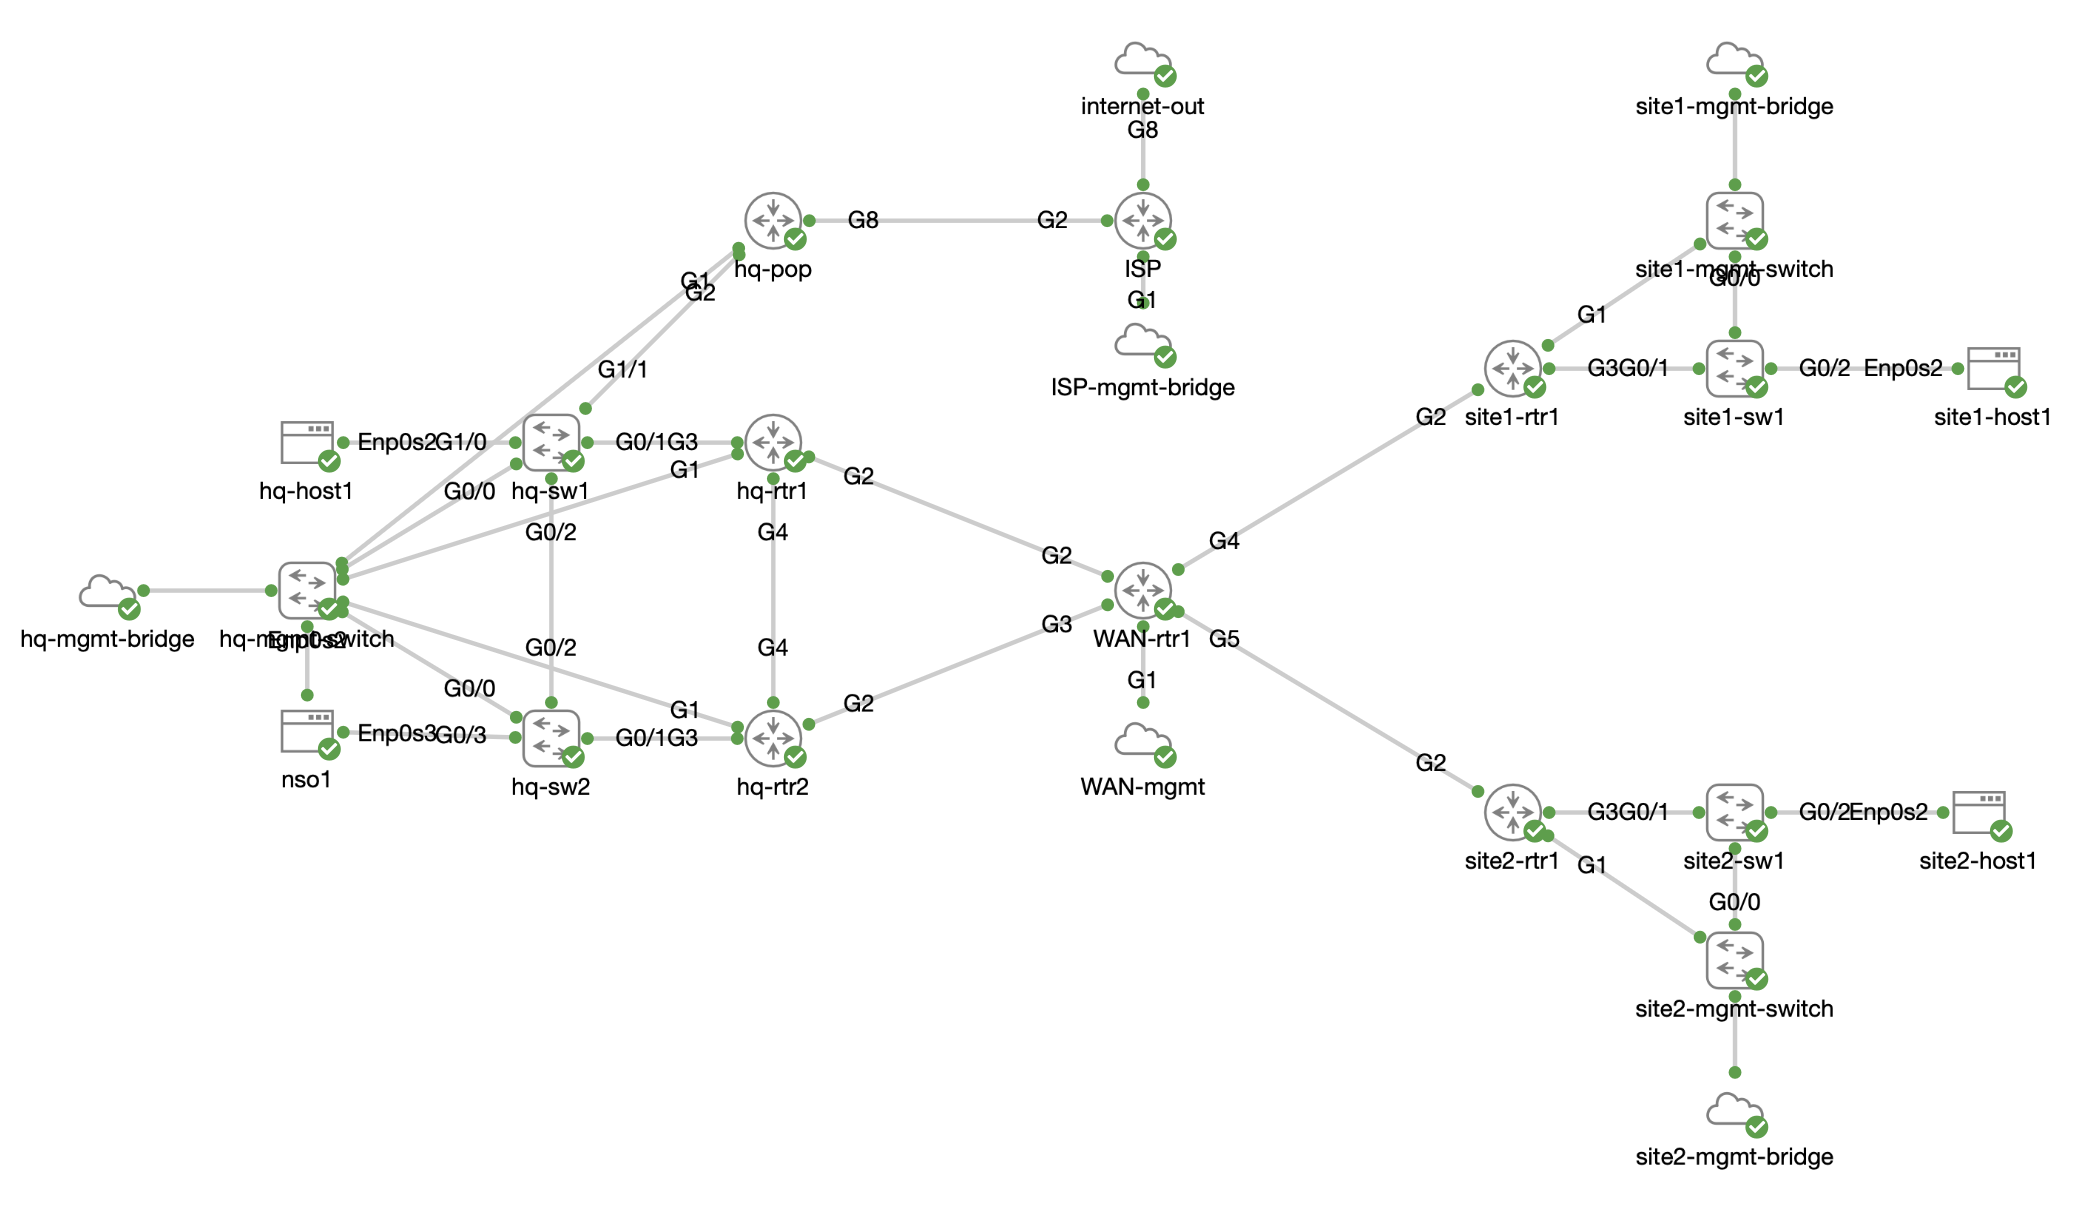
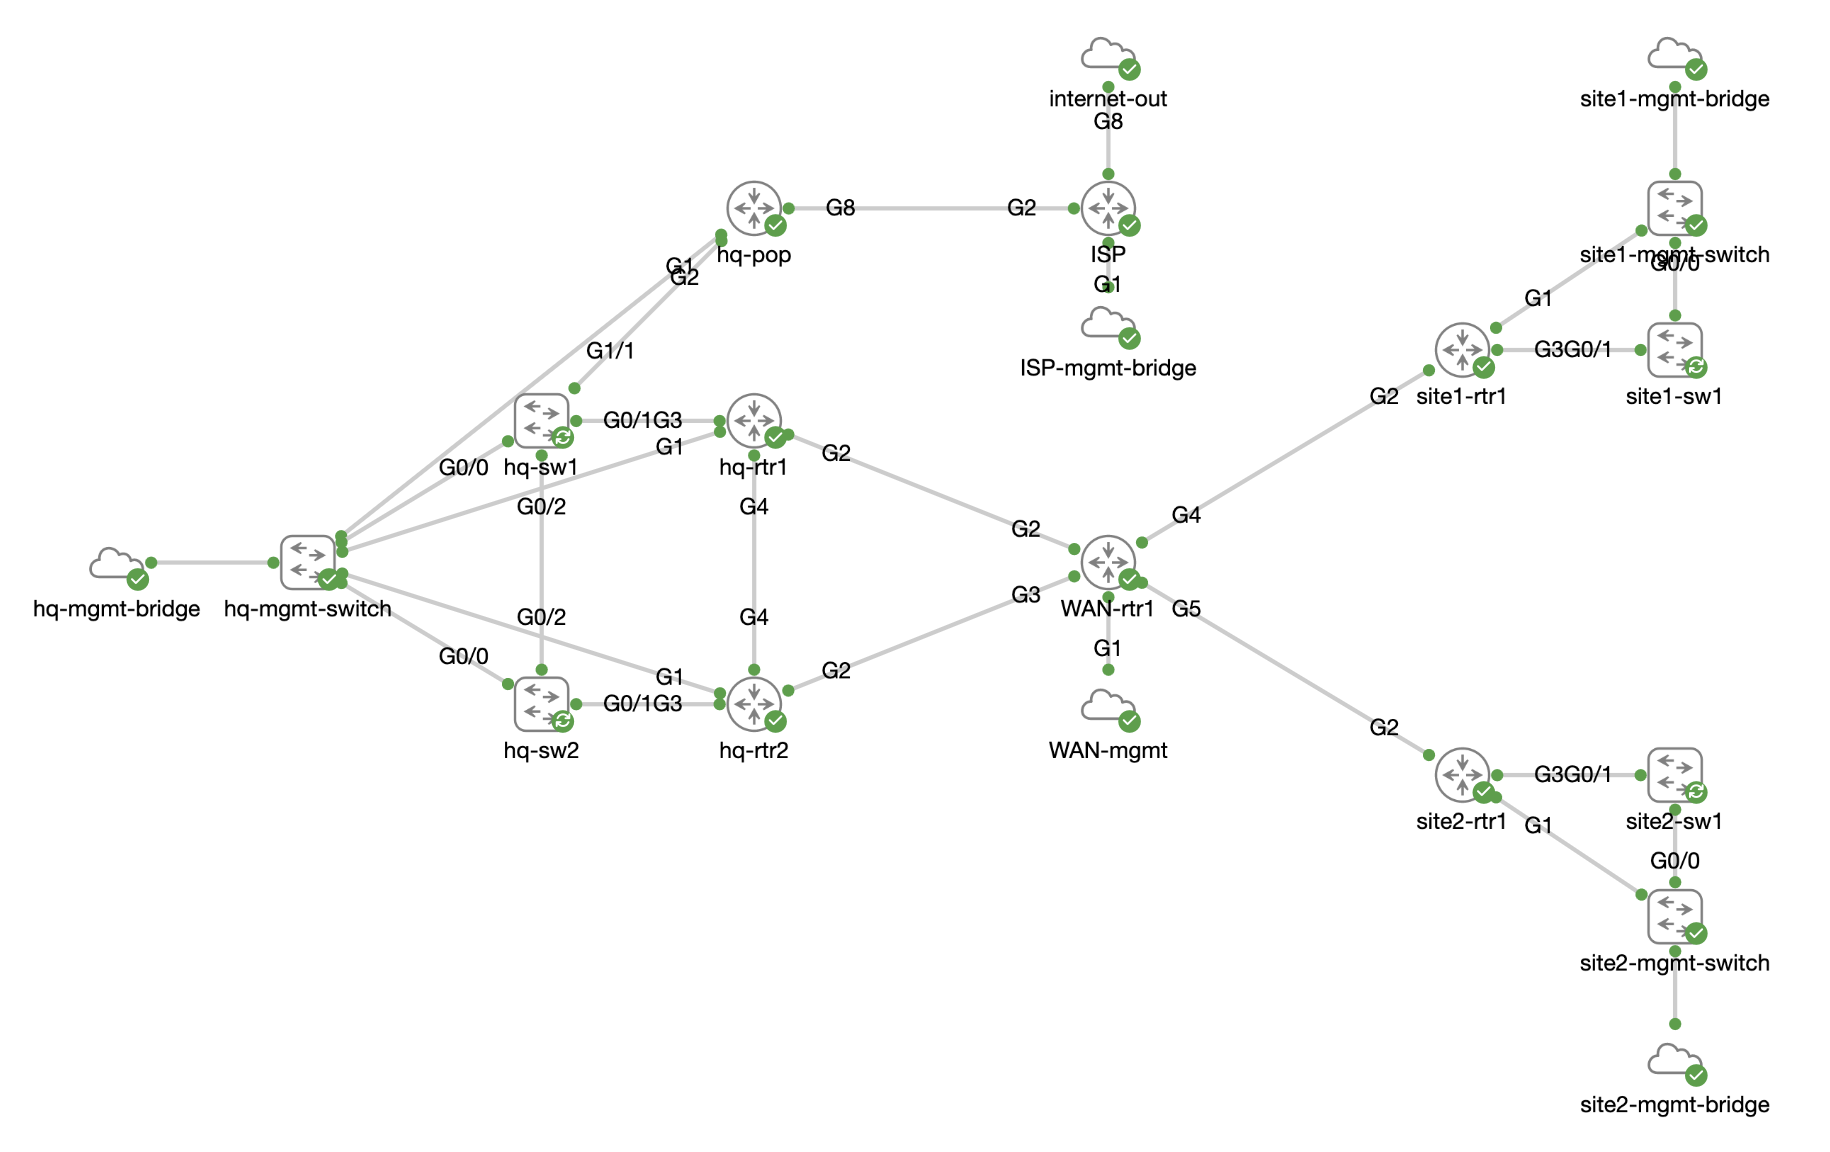
Updated exercises

diff --git a/exercises/explore-inventory.md b/exercises/explore-inventory.md
@@ -39,13 +39,11 @@ ansible-inventory --graph cml_hosts
 Expected output:
 
 ```
-SSL Verification disabled
 @cml_hosts:
   |--ISP
   |--ISP-mgmt-bridge
   |--WAN-mgmt
   |--WAN-rtr1
-  |--hq-host1
   |--hq-mgmt-bridge
   |--hq-mgmt-switch
   |--hq-pop
@@ -54,13 +52,10 @@ SSL Verification disabled
   |--hq-sw1
   |--hq-sw2
   |--internet-out
-  |--nso1
-  |--site1-host1
   |--site1-mgmt-bridge
   |--site1-mgmt-switch
   |--site1-rtr1
   |--site1-sw1
-  |--site2-host1
   |--site2-mgmt-bridge
   |--site2-mgmt-switch
   |--site2-rtr1
@@ -78,50 +73,38 @@ ansible-playbook cisco.cml.inventory
 Expected output:
 
 ```
-SSL Verification disabled
-[WARNING]: running playbook inside collection cisco.cml
+PLAY [cml_hosts] *************************************************************************************************************************************************
 
-PLAY [cml_hosts] *************************************************************************************************
-
-TASK [debug] *****************************************************************************************************
-ok: [internet-rtr1] => {
-    "msg": "Node: internet-rtr1(cat8000v), State: BOOTED, Address: 192.168.178.230"
-}
-ok: [hq-sw1] => {
-    "msg": "Node: hq-sw1(iosvl2), State: BOOTED, Address: 192.168.178.227"
+TASK [debug] *****************************************************************************************************************************************************
+ok: [WAN-rtr1] => {
+    "msg": "Node: WAN-rtr1(csr1000v), State: BOOTED, Address: 10.10.20.131"
 }
 ok: [hq-sw2] => {
-    "msg": "Node: hq-sw2(iosvl2), State: BOOTED, Address: 192.168.178.226"
+    "msg": "Node: hq-sw2(iosvl2), State: BOOTED, Address: 10.10.20.133"
+}
+ok: [hq-sw1] => {
+    "msg": "Node: hq-sw1(iosvl2), State: BOOTED, Address: 10.10.20.132"
 }
 ok: [site1-sw1] => {
-    "msg": "Node: site1-sw1(iosvl2), State: BOOTED, Address: 192.168.178.229"
+    "msg": "Node: site1-sw1(iosvl2), State: BOOTED, Address: 10.10.20.134"
 }
 ok: [hq-rtr1] => {
-    "msg": "Node: hq-rtr1(cat8000v), State: BOOTED, Address: 192.168.178.228"
-}
-ok: [hq-rtr2] => {
-    "msg": "Node: hq-rtr2(cat8000v), State: BOOTED, Address: 192.168.178.222"
+    "msg": "Node: hq-rtr1(csr1000v), State: BOOTED, Address: 10.10.20.135"
 }
 ok: [site1-rtr1] => {
-    "msg": "Node: site1-rtr1(cat8000v), State: BOOTED, Address: 192.168.178.212"
+    "msg": "Node: site1-rtr1(csr1000v), State: BOOTED, Address: 10.10.20.137"
 }
-ok: [site1-host1] => {
-    "msg": "Node: site1-host1(ubuntu), State: BOOTED, Address: site1-host1"
+ok: [hq-rtr2] => {
+    "msg": "Node: hq-rtr2(csr1000v), State: BOOTED, Address: 10.10.20.136"
 }
-ok: [hq-host1] => {
-    "msg": "Node: hq-host1(ubuntu), State: BOOTED, Address: hq-host1"
-}
-ok: [internet-mgmt] => {
-    "msg": "Node: internet-mgmt(external_connector), State: BOOTED, Address: internet-mgmt"
+ok: [WAN-mgmt] => {
+    "msg": "Node: WAN-mgmt(external_connector), State: BOOTED, Address: WAN-mgmt"
 }
 ok: [site2-rtr1] => {
-    "msg": "Node: site2-rtr1(cat8000v), State: BOOTED, Address: 192.168.178.213"
+    "msg": "Node: site2-rtr1(csr1000v), State: BOOTED, Address: 10.10.20.138"
 }
 ok: [site2-sw1] => {
-    "msg": "Node: site2-sw1(iosvl2), State: BOOTED, Address: 192.168.178.231"
-}
-ok: [site2-host1] => {
-    "msg": "Node: site2-host1(ubuntu), State: BOOTED, Address: site2-host1"
+    "msg": "Node: site2-sw1(iosvl2), State: BOOTED, Address: 10.10.20.139"
 }
 ok: [hq-mgmt-bridge] => {
     "msg": "Node: hq-mgmt-bridge(external_connector), State: BOOTED, Address: hq-mgmt-bridge"
@@ -135,37 +118,42 @@ ok: [site1-mgmt-switch] => {
 ok: [site1-mgmt-bridge] => {
     "msg": "Node: site1-mgmt-bridge(external_connector), State: BOOTED, Address: site1-mgmt-bridge"
 }
-ok: [site2-mgmt-switch] => {
-    "msg": "Node: site2-mgmt-switch(unmanaged_switch), State: BOOTED, Address: site2-mgmt-switch"
-}
 ok: [site2-mgmt-bridge] => {
     "msg": "Node: site2-mgmt-bridge(external_connector), State: BOOTED, Address: site2-mgmt-bridge"
 }
-ok: [nso1] => {
-    "msg": "Node: nso1(ubuntu), State: BOOTED, Address: 192.168.178.221"
+ok: [site2-mgmt-switch] => {
+    "msg": "Node: site2-mgmt-switch(unmanaged_switch), State: BOOTED, Address: site2-mgmt-switch"
+}
+ok: [hq-pop] => {
+    "msg": "Node: hq-pop(csr1000v), State: BOOTED, Address: 10.10.20.140"
 }
 ok: [internet-out] => {
     "msg": "Node: internet-out(external_connector), State: BOOTED, Address: internet-out"
 }
+ok: [ISP-mgmt-bridge] => {
+    "msg": "Node: ISP-mgmt-bridge(external_connector), State: BOOTED, Address: ISP-mgmt-bridge"
+}
+ok: [ISP] => {
+    "msg": "Node: ISP(csr1000v), State: BOOTED, Address: ISP"
+}
 
-PLAY RECAP *******************************************************************************************************
-hq-host1                   : ok=1    changed=0    unreachable=0    failed=0    skipped=0    rescued=0    ignored=0   
+PLAY RECAP *******************************************************************************************************************************************************
+ISP                        : ok=1    changed=0    unreachable=0    failed=0    skipped=0    rescued=0    ignored=0   
+ISP-mgmt-bridge            : ok=1    changed=0    unreachable=0    failed=0    skipped=0    rescued=0    ignored=0   
+WAN-mgmt                   : ok=1    changed=0    unreachable=0    failed=0    skipped=0    rescued=0    ignored=0   
+WAN-rtr1                   : ok=1    changed=0    unreachable=0    failed=0    skipped=0    rescued=0    ignored=0   
 hq-mgmt-bridge             : ok=1    changed=0    unreachable=0    failed=0    skipped=0    rescued=0    ignored=0   
 hq-mgmt-switch             : ok=1    changed=0    unreachable=0    failed=0    skipped=0    rescued=0    ignored=0   
+hq-pop                     : ok=1    changed=0    unreachable=0    failed=0    skipped=0    rescued=0    ignored=0   
 hq-rtr1                    : ok=1    changed=0    unreachable=0    failed=0    skipped=0    rescued=0    ignored=0   
 hq-rtr2                    : ok=1    changed=0    unreachable=0    failed=0    skipped=0    rescued=0    ignored=0   
 hq-sw1                     : ok=1    changed=0    unreachable=0    failed=0    skipped=0    rescued=0    ignored=0   
 hq-sw2                     : ok=1    changed=0    unreachable=0    failed=0    skipped=0    rescued=0    ignored=0   
-internet-mgmt              : ok=1    changed=0    unreachable=0    failed=0    skipped=0    rescued=0    ignored=0   
 internet-out               : ok=1    changed=0    unreachable=0    failed=0    skipped=0    rescued=0    ignored=0   
-internet-rtr1              : ok=1    changed=0    unreachable=0    failed=0    skipped=0    rescued=0    ignored=0   
-nso1                       : ok=1    changed=0    unreachable=0    failed=0    skipped=0    rescued=0    ignored=0   
-site1-host1                : ok=1    changed=0    unreachable=0    failed=0    skipped=0    rescued=0    ignored=0   
 site1-mgmt-bridge          : ok=1    changed=0    unreachable=0    failed=0    skipped=0    rescued=0    ignored=0   
 site1-mgmt-switch          : ok=1    changed=0    unreachable=0    failed=0    skipped=0    rescued=0    ignored=0   
 site1-rtr1                 : ok=1    changed=0    unreachable=0    failed=0    skipped=0    rescued=0    ignored=0   
 site1-sw1                  : ok=1    changed=0    unreachable=0    failed=0    skipped=0    rescued=0    ignored=0   
-site2-host1                : ok=1    changed=0    unreachable=0    failed=0    skipped=0    rescued=0    ignored=0   
 site2-mgmt-bridge          : ok=1    changed=0    unreachable=0    failed=0    skipped=0    rescued=0    ignored=0   
 site2-mgmt-switch          : ok=1    changed=0    unreachable=0    failed=0    skipped=0    rescued=0    ignored=0   
 site2-rtr1                 : ok=1    changed=0    unreachable=0    failed=0    skipped=0    rescued=0    ignored=0   
@@ -181,19 +169,17 @@ ansible-playbook cisco.cml.inventory --limit hq-rtr1
 Expected output:
 
 ```
-SSL Verification disabled
+PLAY [cml_hosts] *************************************************************************************************************************************************
 
-PLAY [cml_hosts] *************************************************************************************************************************************
-
-TASK [debug] *****************************************************************************************************************************************
+TASK [debug] *****************************************************************************************************************************************************
 ok: [hq-rtr1] => {
-    "msg": "Node: hq-rtr1(csr1000v), State: BOOTED, Address: 192.168.178.228"
+    "msg": "Node: hq-rtr1(csr1000v), State: BOOTED, Address: 10.10.20.135"
 }
 
-PLAY RECAP *******************************************************************************************************************************************
+PLAY RECAP *******************************************************************************************************************************************************
 hq-rtr1                    : ok=1    changed=0    unreachable=0    failed=0    skipped=0    rescued=0    ignored=0   
 ```
 
 Keep in mind that this is just the Ansible inventory of devices and *does not* include the configuration for the devices (ie. the Source of Truth). That data is stored in the MDD data directory, which we will explore in the next exercise.
 
-[Home](../README.md#workshop-exercises) | [Previous](initial-setup.md#initial-setup) | [Next](explore-data.md#exploring-the-data)
+[Home](../README.md#workshop-exercises) | [Previous](deploy-topology.md#deploy-the-topology) | [Next](explore-data.md#exploring-the-data)

diff --git a/exercises/deploy-topology.md b/exercises/deploy-topology.md
@@ -1,118 +1,34 @@
 # Deploying the Topology
 
-## Dependencies
-
-See [Initial Setup](initial-setup.md)
-
-## Topology
 
 ![MDD Reference Topology](mdd_topo.png?raw=true "MDD Reference Topology")
 
-## Environment Variables
 
-* `CML_HOST`: The hostname of the CML server
-* `CML_USERNAME`: The username of the CM user.
-* `CML_PASSWORD`: The password of the CML user.
-* `CML_LAB`: The name of the lab
-* `CML_VERIFY_CERT`: Whether to verify SSL Certificates
-
-## Ansible Variables
-
-* `cml_lab_file`: The CML topology file to deploy (defined in `inventory/group_vars/all/cml.yml`)
-* `nso_installer_file`: URL to the NSO installer file
-* `nso_ned_files`: List of URLs to the NSO NED files
-
-## Procedure
-
-### CML
-
-#### Build the CML Topology
-
-* Create the topology
+Stop the default topology in the sandbox, we will not be using it.  This command may take a minute or two to execute.
 
 ```
-ansible-playbook cisco.cml.build -e startup='host' -e wait='yes'
+ansible-playbook cisco.cml.clean -e cml_lab='"Multi Platform Network"'
 ```
 
-#### Cleaning the CML Topology (optional)
-
-* Stop each node and delete the topology
+Build the MDD reference topology in CML and wait for the lab to boot.  This will take several minutes.  If you want to watch the topology come online, you can browse to CML at https://10.10.20.161 and login with your developer credentials to explore the topology while it boots.
 
 ```
-ansible-playbook cisco.cml.clean
+ansible-playbook cisco.cml.build -e wait=yes
 ```
 
-#### Getting Inventory (optional)
-
-* Display the current inventory of CML devices
-
-```
-ansible-playbook cisco.cml.inventory
-```
-
-### NSO
-
-#### Install NSO Software
-
-* Install NSO in server mode
-
-```
-ansible-playbook ciscops.mdd.nso_install
-```
-
-#### Installing NSO Packages
-
-* Install NSO MDD Packages
-
-```
-ansible-playbook ciscops.mdd.nso_update_packages
-```
-
-#### Inititalize NSO
-
-* Add default Auth Group
-
+Configure the required auth group in NSO.
 ```
 ansible-playbook ciscops.mdd.nso_init
 ```
 
-#### Adding CML Devices to NSO
+Install the OpenConfig service on NSO.
+```
+ansible-playbook ciscops.mdd.nso_update_packages -e sudo_required=no -e remote_src=no
+```
 
-* Add devices from inventory into NSO
-
+Update NSO with the devices in the MDD reference topology.  Note, if this command fails, you may need to re-run it.  This is an artifact of ARP cache issues in the sandbox and devices may not respond right away.
 ```
 ansible-playbook ciscops.mdd.nso_update_devices
 ```
 
->Note: Can be run with `--limit=<host>` to limit the scope of the playbook
-
-#### Update NSO config from device (optional)
-
-* Re-sync configuration from the device
-
-```
-ansible-playbook ciscops.mdd.nso_sync_from
-```
-
->Note: Can be run with `--limit=<host>` to limit the scope of the playbook
-
-#### Update device config from NSO (optional)
-
-* Re-sync configuration to the device
-
-```
-ansible-playbook ciscops.mdd.nso_sync_to
-```
-
->Note: Can be run with `--limit=<host>` to limit the scope of the playbook
-
-
-#### Check to make sure device is in sync with NSO (optional)
-
-* Re-sync configuration from the device
-
-```
-ansible-playbook ciscops.mdd.nso_check_sync
-```
-
->Note: Can be run with `--limit=<host>` to limit the scope of the playbook
+[Home](../README.md#workshop-exercises) | [Previous](initial-setup.md#initial-setup) | [Next](explore-inventory.md#exploring-the-inventory)

diff --git a/exercises/initial-setup.md b/exercises/initial-setup.md
@@ -7,7 +7,7 @@ This workshop is designed to work with Visual Studio Code and the Cisco NSO DevN
 - Clone the MDD repo and set the required environment variables
 - Install the required Python packages and Ansible collections
 
-# Steps
+## Steps
 1. Following the instructions in your NSO sandbox, connect to the sandbox via VPN.
 
 1. If you don't already have it installed, install Visual Studio Code and the Remote - SSH plugin. Note: you can use any IDE you prefer, if you do not prefer to use Visual Studio Code. However, the instructions specified in this workshop will need to be modified for you environment.
@@ -56,4 +56,4 @@ This workshop is designed to work with Visual Studio Code and the Cisco NSO DevN
 
 That's it! Your environment should be properly setup and you are ready to start your journey with Model-Driven DevOps.
 
-[Home](../README.md#workshop-exercises) | [Previous](../README.md#workshop-exercises) | [Next](explore-inventory.md#exploring-the-inventory)
+[Home](../README.md#workshop-exercises) | [Previous](../README.md#workshop-exercises) | [Next](deploy-topology.md#deploying-the-topology)

diff --git a/README.md b/README.md
@@ -35,6 +35,7 @@ Each pod has its own topology running in a Cisco Modeling Labs instance in AWS.
 These exercises will help you get hands-on experience with different aspects of the reference implementation. You will begin by getting familiar with the data and Ansible playbooks in Visual Studio Code and finish with the fully implemented pipeline in GitLab.
 
 * [Initial Setup](exercises/initial-setup.md#initial-setup)
+* [Deploy the Topology](exercises/deploy-topology.md#deploy-the-topology)
 * [Exploring the Inventory](exercises/explore-inventory.md#exploring-the-inventory)
 * [Exploring the Data](exercises/explore-data.md#exploring-the-data)
 * [Data Validation](exercises/data-validation.md#data-validation)
